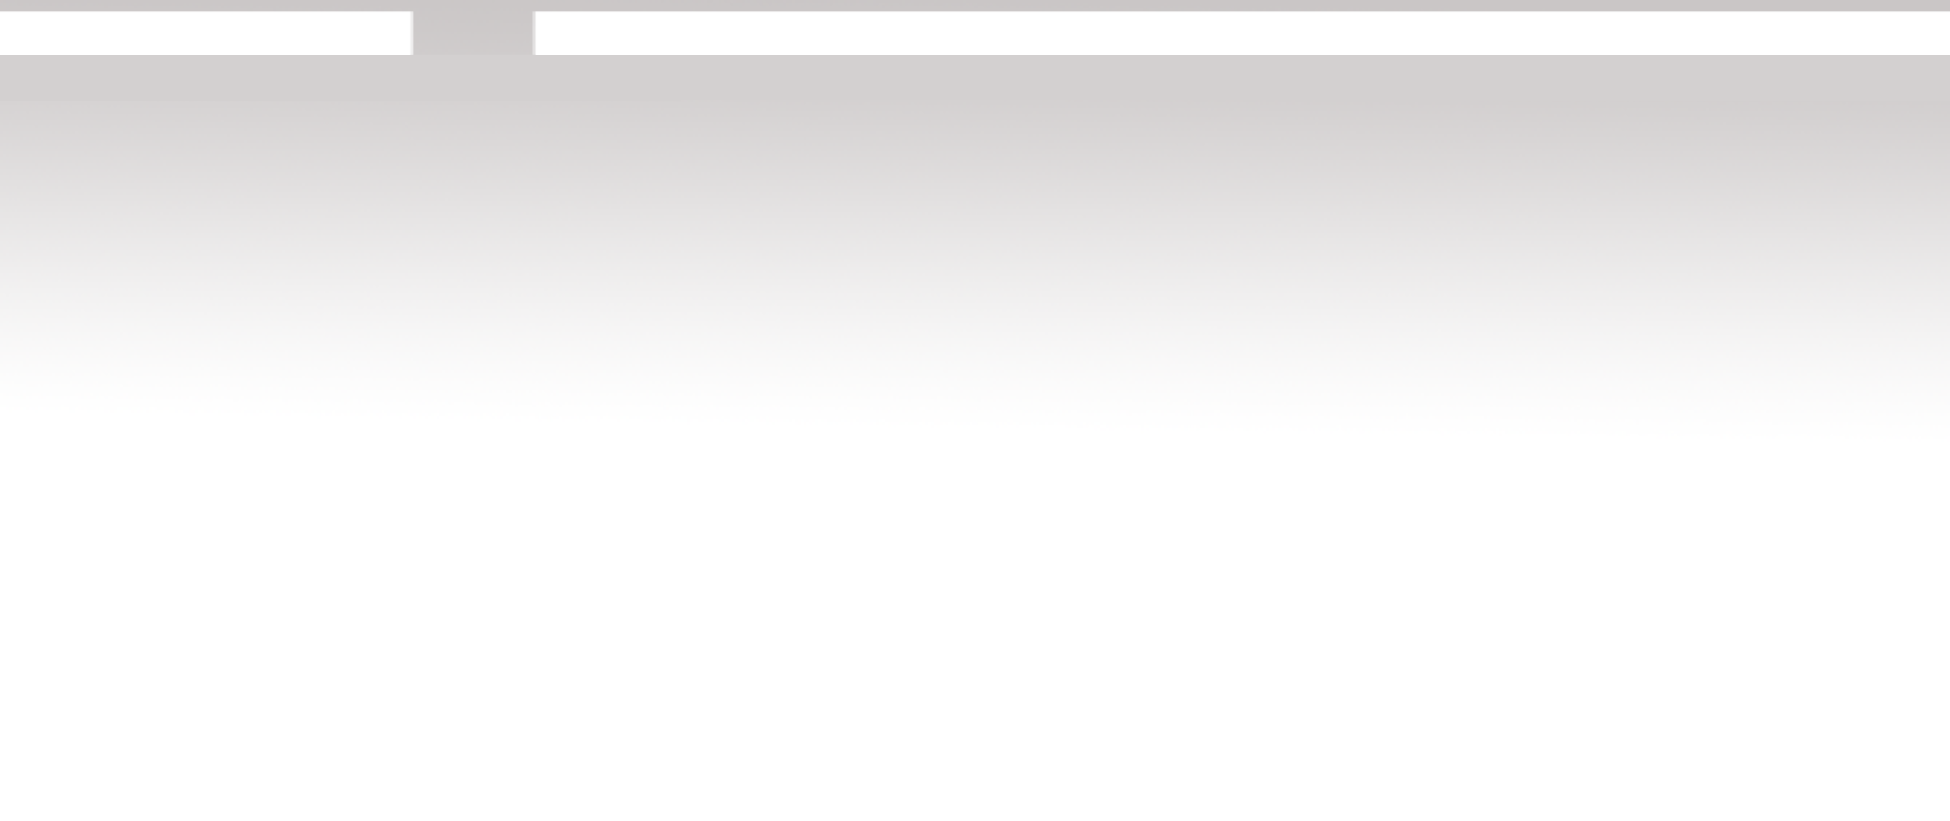
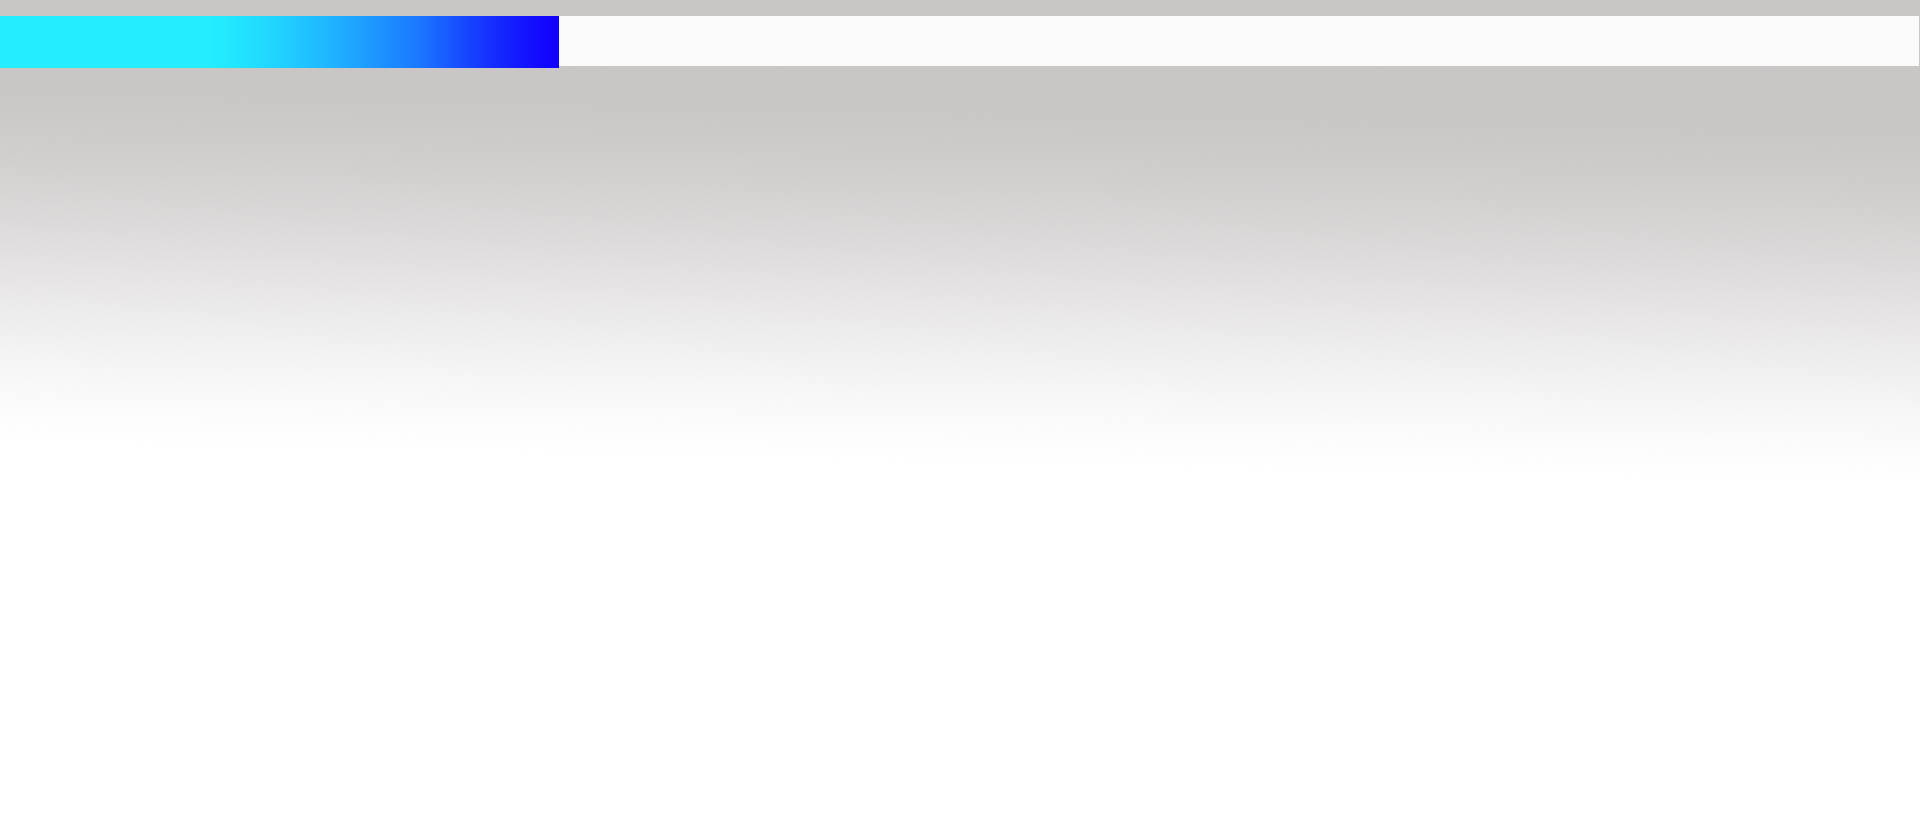
Navbar 70%

Changed region(s): [[0.0, 0.0, 1.0, 0.0914]]

diff --git a/src/asset/components/Navbar.js b/src/asset/components/Navbar.js
@@ -5,7 +5,7 @@ import $ from 'jquery'
 class Navbar extends React.Component{
   render(){
     return(        <div className="container-fluid">
-    <nav class="navbar navbar-expand-sm navbar-dark bg-light fixed-top ">
+    <nav class="navbar navbar-expand-sm navbar-dark bg-transparent fixed-top" id="banner">
       <button class="navbar-toggler ml-auto" type="button" data-toggle="collapse" data-target="#navbarNavDropdown" aria-controls="navbarNavDropdown" aria-expanded="false" aria-label="Toggle navigation">
         <span class="navbar-toggler-icon"></span>
       </button>
@@ -48,7 +48,7 @@ class Navbar extends React.Component{
             <a class="nav-link dropdown-toggle" href="#" id="navbarDropdownMenuLink" role="button" data-toggle="dropdown" aria-haspopup="true" aria-expanded="false">
               เอกสาร/รายงาน
             </a>
-            <div class="dropdown-menu" aria-labelledby="navbarDropdownMenuLink">
+            <div class="dropdown-menu dropd" aria-labelledby="navbarDropdownMenuLink">
               <a class="dropdown-item" href="#">Action</a>
               <a class="dropdown-item" href="#">Another action</a>
               <a class="dropdown-item" href="#">Something else here</a>
@@ -64,21 +64,25 @@ class Navbar extends React.Component{
               <a class="dropdown-item" href="#">Something else here</a>
             </div>
           </li>
+          
         </ul>
       </div>
     </nav>
-            </div>);
+ </div>);
   }
 }
 
 $(document).on("scroll", function(){
   if
-    ($(document).scrollTop() > 86){
-    $("#banner").addClass("shrink");
+  ($(document).scrollTop() > 200){
+    $("#banner").removeClass("bg-transparent");
+    $("#banner").addClass("bg-light");
   }
   else
   {
-    $("#banner").removeClass("shrink");
+    $("#banner").addClass("fixed-top");
+    $("#banner").addClass("bg-transparent");
+    $("#banner").removeClass("bg-light");
   }
 });
 export default Navbar;

diff --git a/public/index.html b/public/index.html
@@ -3,6 +3,7 @@
   <head>
     <meta charset="utf-8" />
     <link rel="shortcut icon" href="%PUBLIC_URL%/favicon.ico" />
+    <link rel="stylesheet" href="https://cdnjs.cloudflare.com/ajax/libs/font-awesome/4.7.0/css/font-awesome.min.css">
     <meta name="viewport" content="width=device-width, initial-scale=1" />
     <meta name="theme-color" content="#000000" />
     <meta

diff --git a/src/asset/css/Navbar.css b/src/asset/css/Navbar.css
@@ -1,3 +1,4 @@
-.bg-light {
-    background-color: transparent !important;
-  }
+.bg-light{
+    background-color: skyblue !important;
+    opacity: 0.8;
+}
